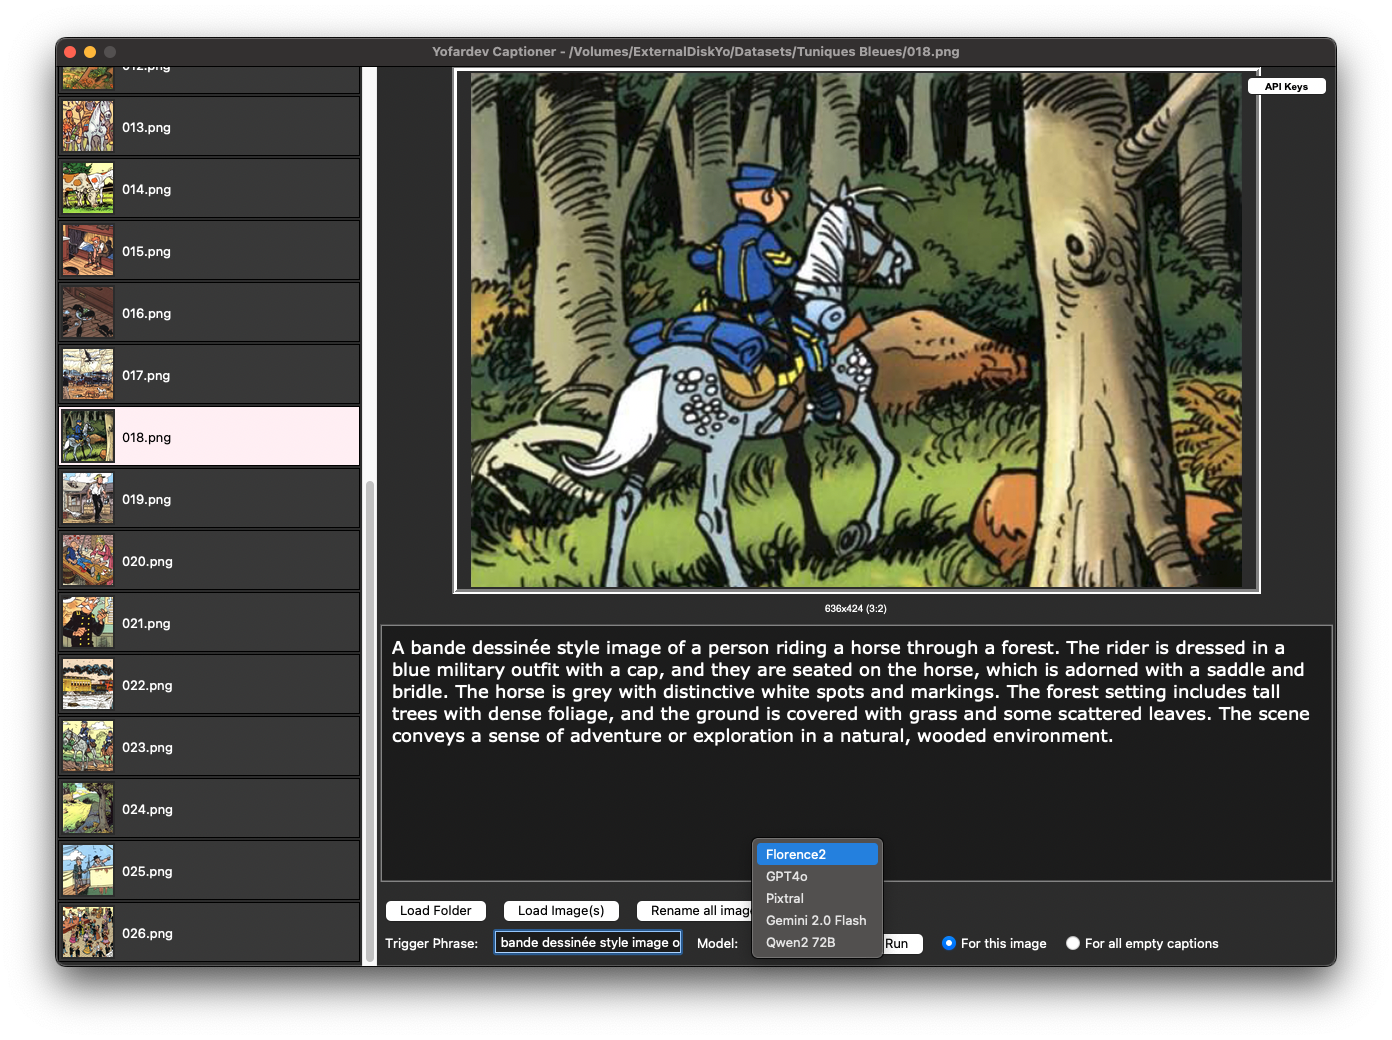
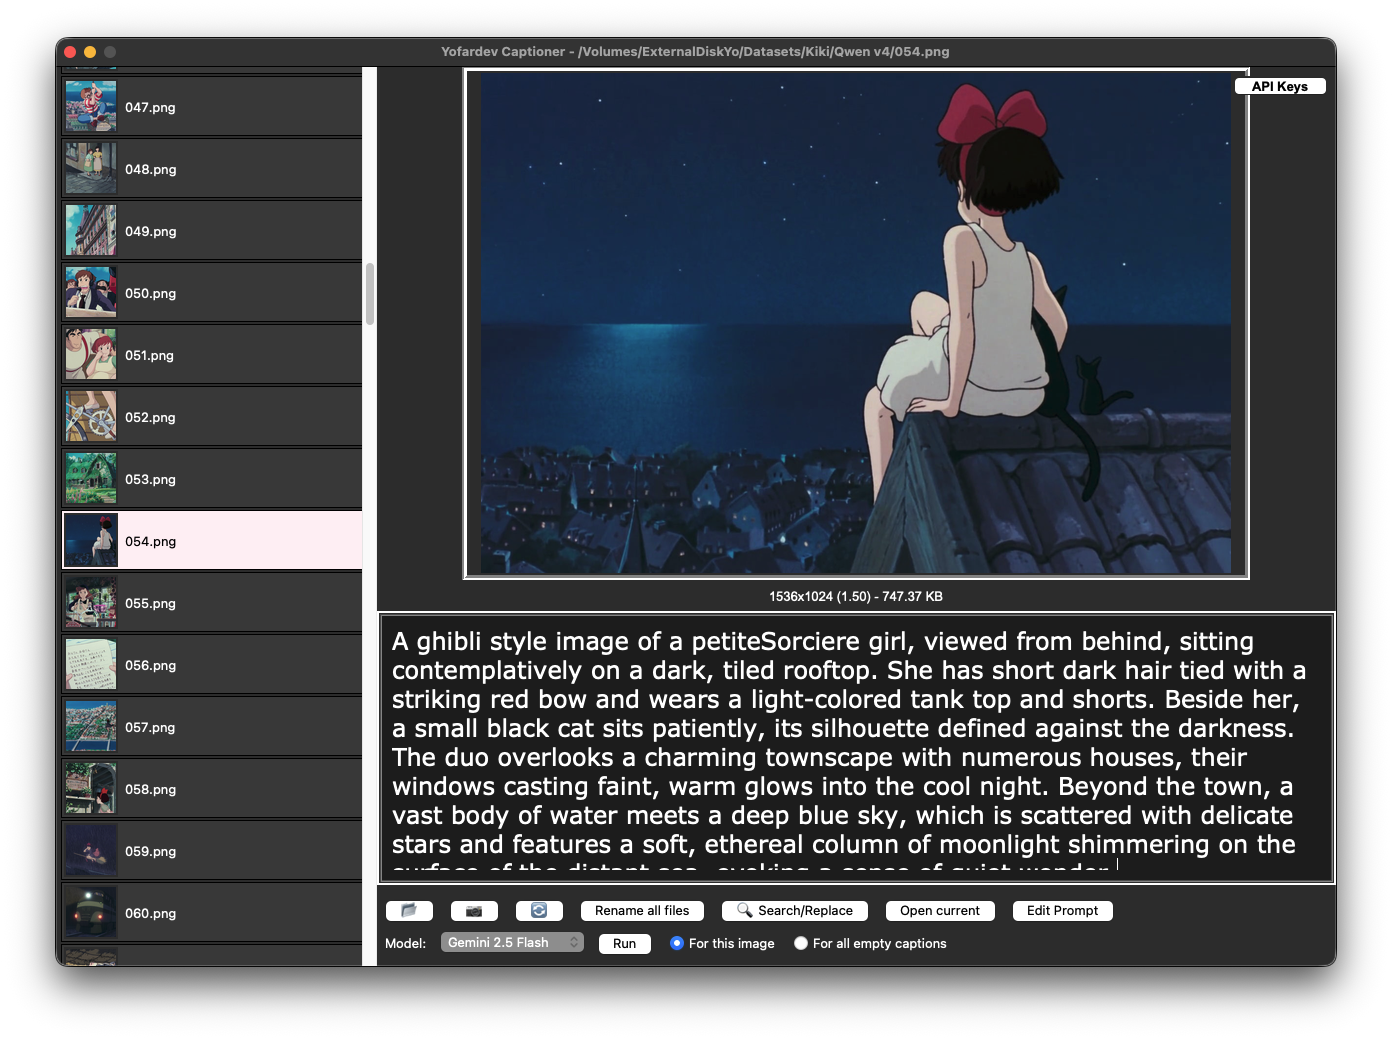
open current image/folder

diff --git a/ui/model_controls.py b/ui/model_controls.py
@@ -1,3 +1,5 @@
+import os
+import subprocess
 import tkinter as tk
 
 from vision_service import on_run_pressed
@@ -5,7 +7,7 @@ from vision_service import on_run_pressed
 
 class ModelControls:
     """Handles AI model selection and execution controls."""
-    
+
     def __init__(self, captioner):
         self.captioner = captioner
         self.caption_mode = tk.StringVar(value="single")
@@ -15,12 +17,12 @@ class ModelControls:
         self.top_row_frame = None
         self.bottom_row_frame = None
         self.model_dropdown = None
-    
+
     def setup_control_frame(self):
         """Setup the main control frame with two rows."""
         self.control_frame = tk.Frame(self.captioner.root)
         self.control_frame.pack(side="bottom", fill="x", pady=10)
-        
+
         # Create two separate frames for the rows
         self.top_row_frame = tk.Frame(self.control_frame)
         self.top_row_frame.pack(fill="x", pady=(0, 5))
@@ -37,8 +39,12 @@ class ModelControls:
             ("📂", self.captioner.image_manager.open_folder),
             ("📷", self.captioner.image_manager.open_images),
             ("🔄", self.captioner.image_manager.refresh_images),
-            ("Rename all images", self.captioner.image_manager.rename_images),
-            ("🔍 Search/Replace", self.captioner.search_replace_dialog.open_search_replace_window),
+            ("Rename all files", self.captioner.image_manager.rename_images),
+            (
+                "🔍 Search/Replace",
+                self.captioner.search_replace_dialog.open_search_replace_window,
+            ),
+            ("Open current", self.open_current_folder),
         ]
         for text, command in buttons:
             tk.Button(self.top_row_frame, text=text, command=command).pack(
@@ -51,7 +57,7 @@ class ModelControls:
         """Setup the prompt editing button."""
         tk.Button(
             self.top_row_frame,
-            text="Edit Captioner Prompt",
+            text="Edit Prompt",
             command=self.captioner.prompt_dialog.open_prompt_window,
         ).pack(side="left", padx=5)
 
@@ -90,6 +96,18 @@ class ModelControls:
             variable=self.caption_mode,
             value="all",
         ).pack(side="left", padx=5)
+
+    def open_current_folder(self):
+        """Open the current folder in the system file explorer."""
+        if self.captioner.current_folder and os.path.exists(
+            self.captioner.current_folder
+        ):
+            try:
+                subprocess.run(["open", self.captioner.current_folder])
+            except Exception as e:
+                print(f"Error opening folder: {e}")
+        else:
+            print("No folder is currently open")
 
     def run_model(self):
         """Execute the selected AI model for captioning."""

diff --git a/thumbnail.py b/thumbnail.py
@@ -1,3 +1,5 @@
+import os
+import subprocess
 import tkinter as tk
 
 from PIL import Image,  ImageTk
@@ -10,8 +12,9 @@ class ThumbnailItem(tk.Frame):
         super().__init__(parent, bd=1, relief="solid")
         
         
-        # Store the listbox reference
+        # Store the listbox reference and image path
         self.listbox = listbox
+        self.image_path = image_path
 
         # Create and resize thumbnail to square aspect ratio
         image = Image.open(image_path)
@@ -24,6 +27,7 @@ class ThumbnailItem(tk.Frame):
         self.image_label.image = photo  # Keep reference
         self.image_label.pack(side="left", padx=2, pady=2)
         self.image_label.bind("<Button-1>", self._on_click)
+        self.image_label.bind("<Double-Button-1>", self._on_double_click)
 
         self.text_label = tk.Label(self, text=text, anchor="w", bg='gray25', fg='white')
         self.text_label.pack(side="left", fill="x", expand=True, padx=2)
@@ -35,6 +39,13 @@ class ThumbnailItem(tk.Frame):
         if self.listbox:
             self.listbox._on_select(self.listbox.items.index(self))
 
+    def _on_double_click(self, event):
+        """Open the image file with the default system application."""
+        if self.image_path and os.path.exists(self.image_path):
+            try:
+                subprocess.run(['open', self.image_path])
+            except Exception as e:
+                print(f"Error opening image: {e}")
 
     
 

diff --git a/ui/image_manager.py b/ui/image_manager.py
@@ -1,5 +1,6 @@
 import glob
 import os
+import subprocess
 import tkinter as tk
 from tkinter import filedialog, messagebox
 
@@ -40,8 +41,9 @@ class ImageManager:
 
     def setup_image_display(self):
         """Setup the image display area."""
-        self.image_label = tk.Label(self.captioner.root)
+        self.image_label = tk.Label(self.captioner.root, cursor="hand2")
         self.image_label.pack(side="top", anchor="center")
+        self.image_label.bind("<Button-1>", self.open_current_image)
 
         # Add a label to display resolution and aspect ratio
         self.resolution_label = tk.Label(self.captioner.root, text="", font=("Arial", 10))
@@ -174,6 +176,14 @@ class ImageManager:
         except Exception as e:
             print(f"Error loading image: {e}")
             messagebox.showinfo("Error", f"There was an error loading the image: {e}")
+
+    def open_current_image(self, event=None):
+        """Open the currently displayed image with the default system application."""
+        if self.captioner.current_image_path and os.path.exists(self.captioner.current_image_path):
+            try:
+                subprocess.run(['open', self.captioner.current_image_path])
+            except Exception as e:
+                print(f"Error opening image: {e}")
 
     def check_and_color_item(self, item, file_path):
         """Check if caption exists and color the item accordingly."""

diff --git a/rename_images.py b/rename_images.py
@@ -2,7 +2,7 @@ import os
 from pathlib import Path
 
 def rename_files_to_numbers(folder_path):
-    image_extensions = ('.jpg', '.jpeg', '.png', '.gif', '.bmp')
+    image_extensions = ('.jpg', '.jpeg', '.png', '.webp', '.JPG', '.JPEG', '.PNG', '.WEBP')
     
     # Get all image files and sort them naturally
     all_files_in_folder = [f for f in os.listdir(folder_path) if os.path.isfile(os.path.join(folder_path, f))]
